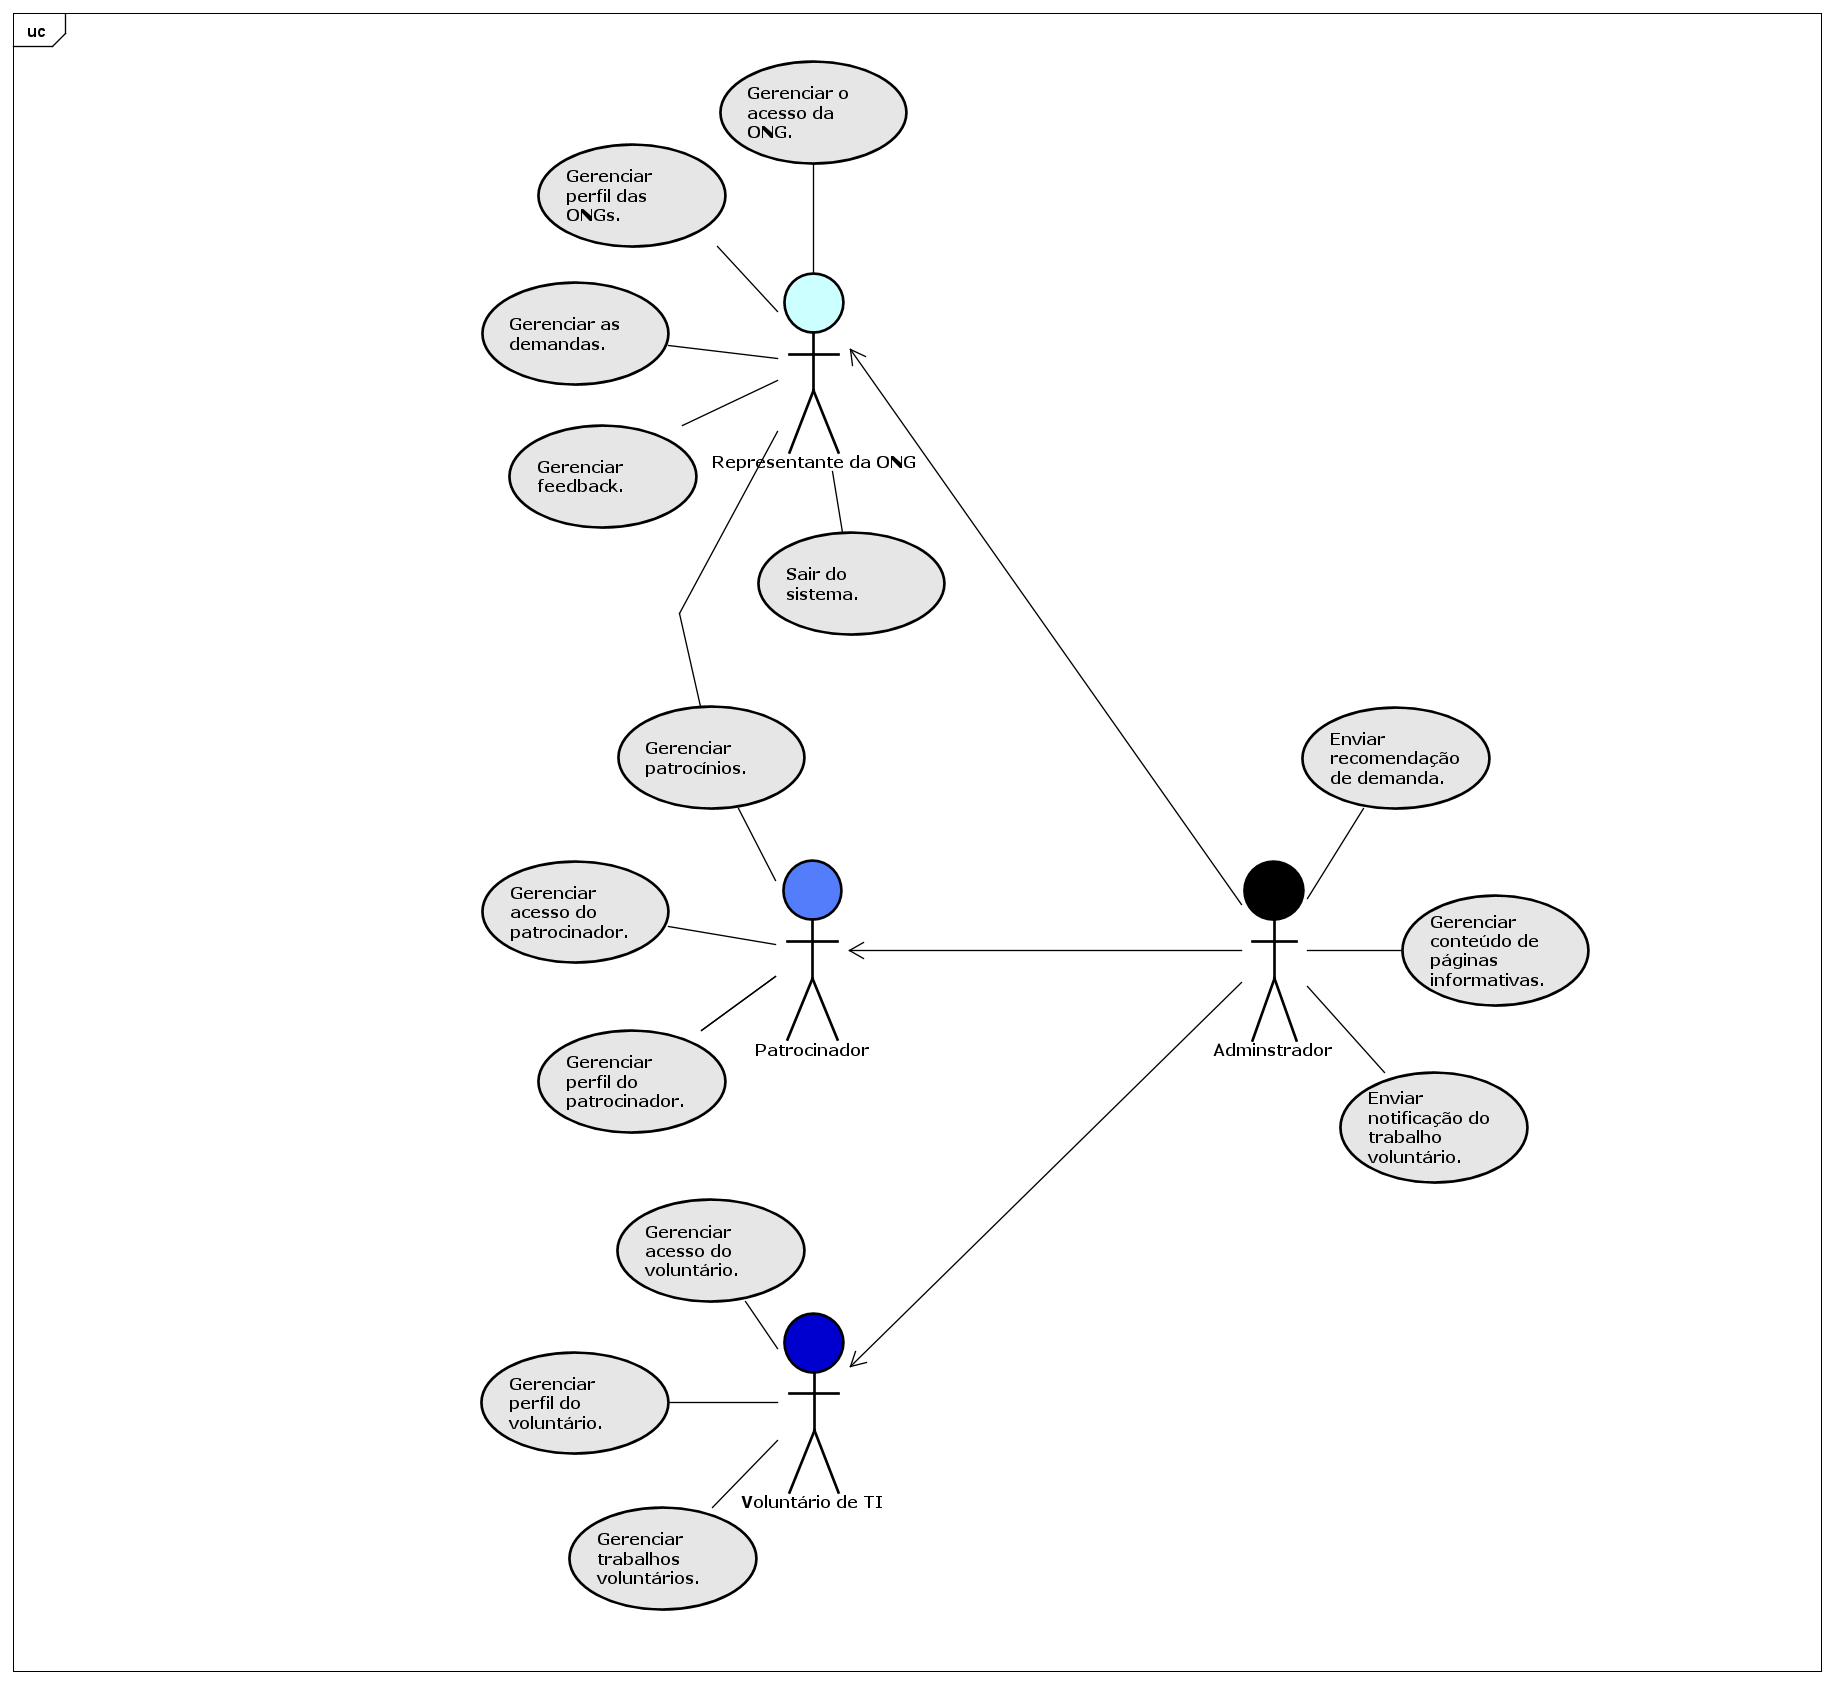
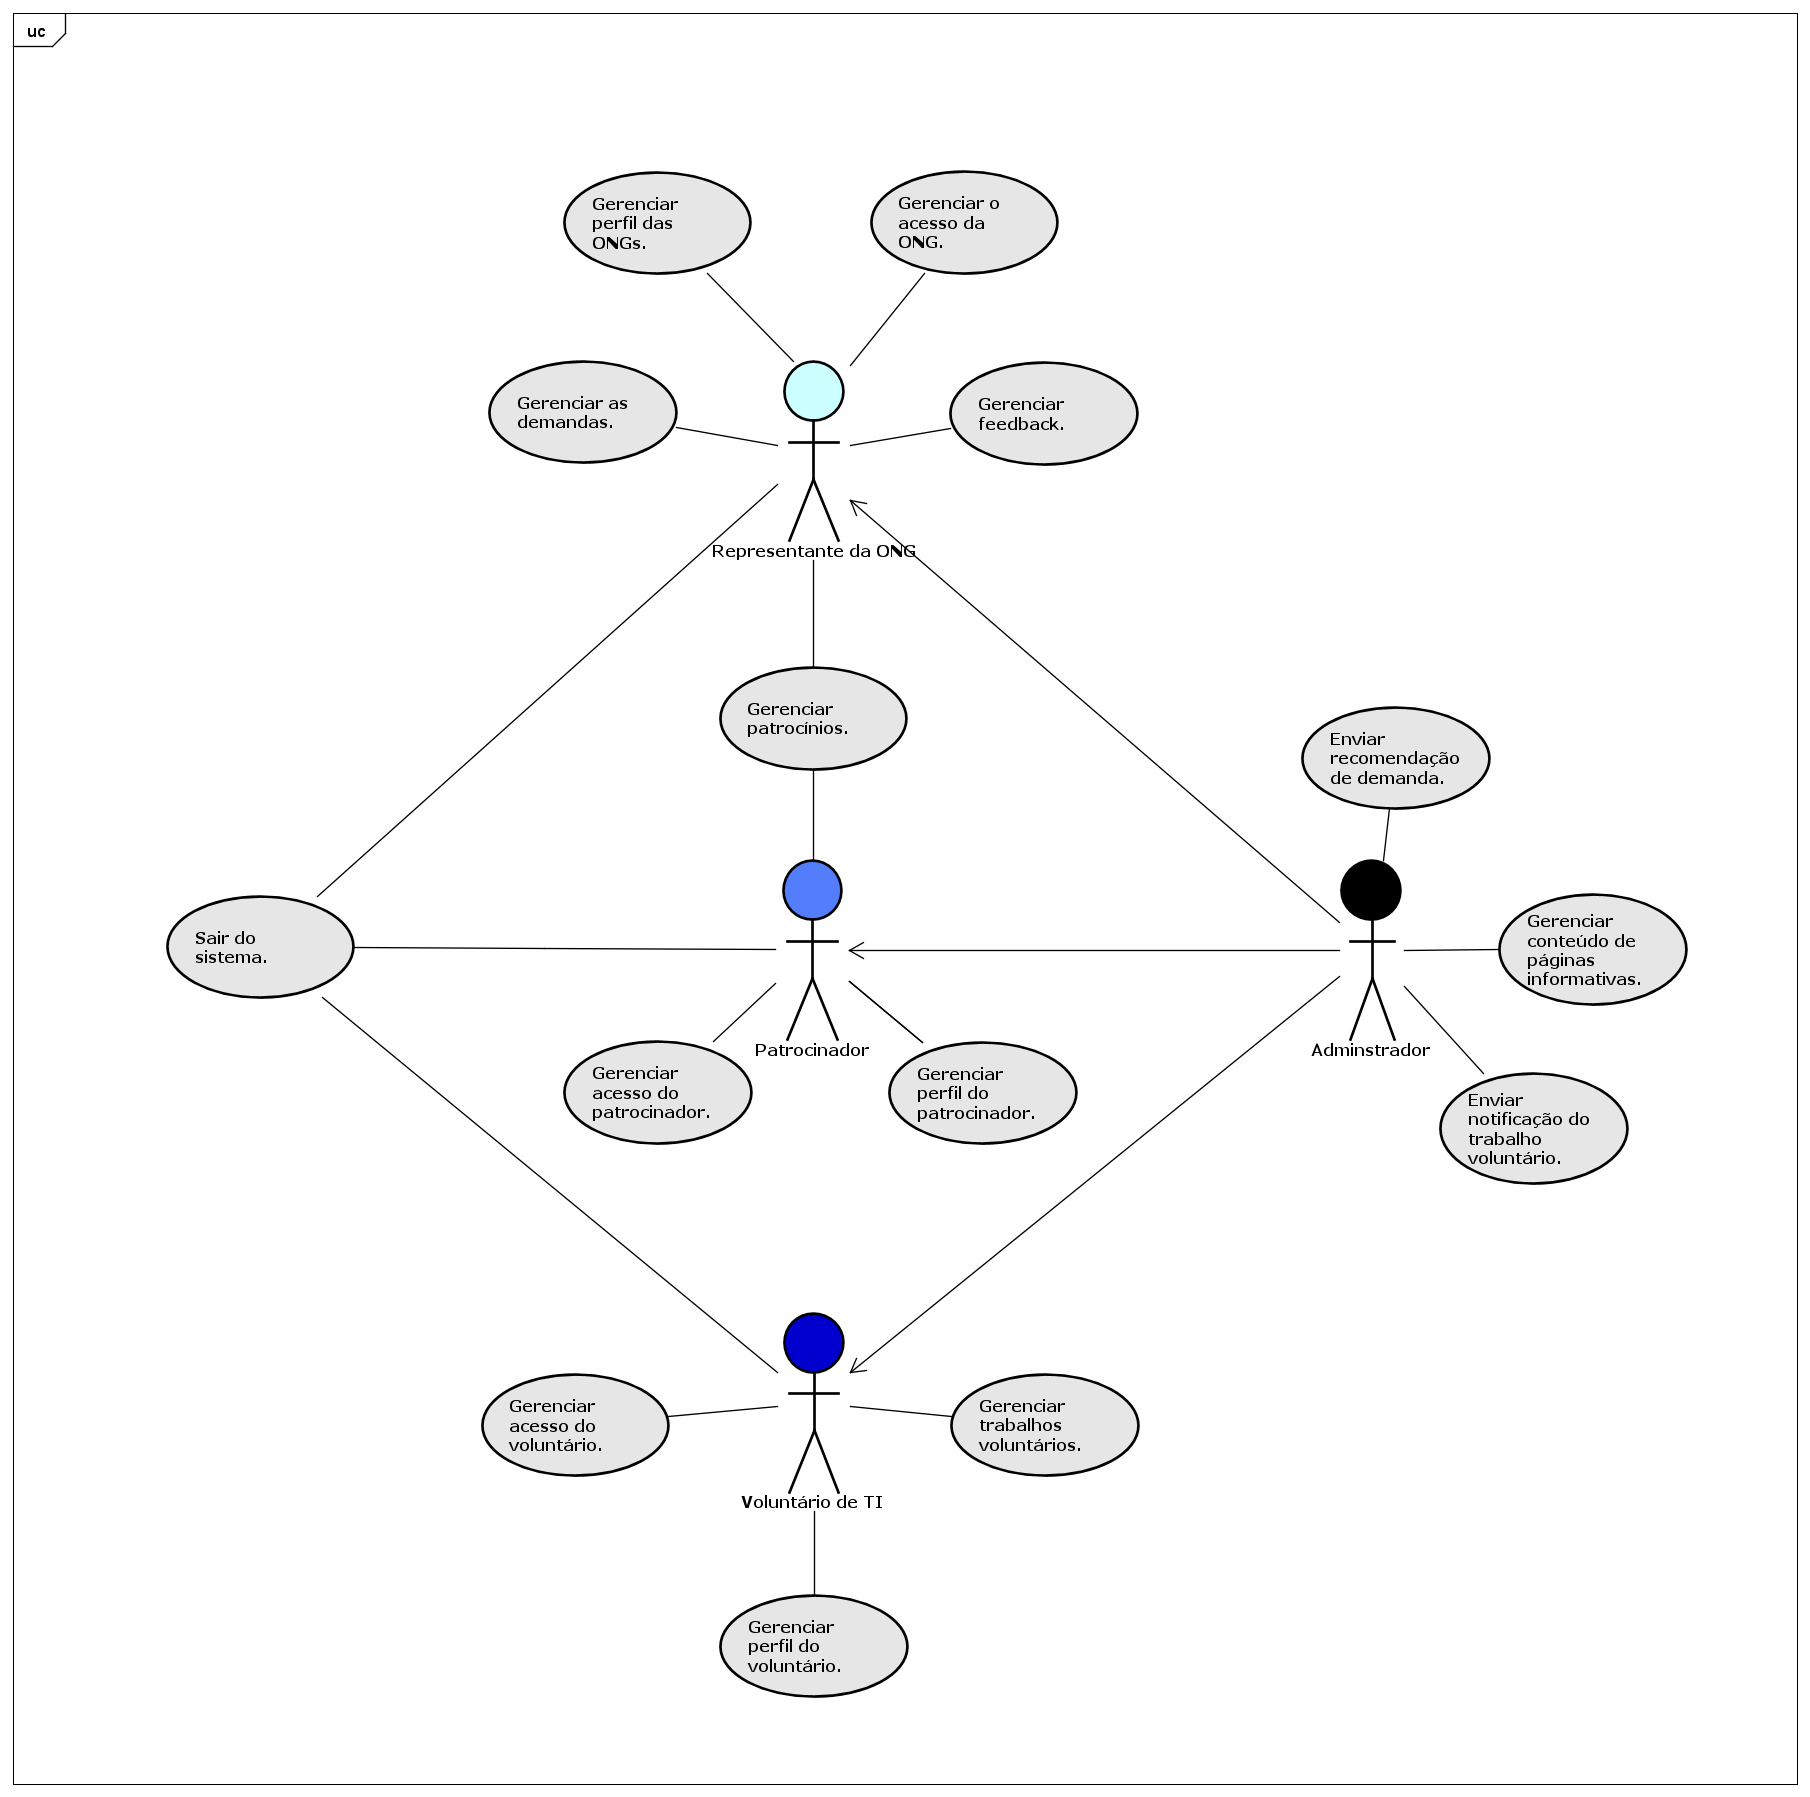
Adciona imagem correta de Descrição de casos de uso

diff --git a/docs/especificacao.md b/docs/especificacao.md
@@ -75,7 +75,7 @@ Como observado no diagrama de casos de uso da Figura 1, o representante da ONG p
 
 #### Figura 1: Diagrama de Casos de Uso do Sistema.
 
-![dcu](./assets/diagrama-de-casos-de-uso-conecta.png)
+![dcu](./assets//diagrama-de-casos-de-uso-conecta.png)
  
 ### 3.4.2 Descrições de Casos de Uso
 
